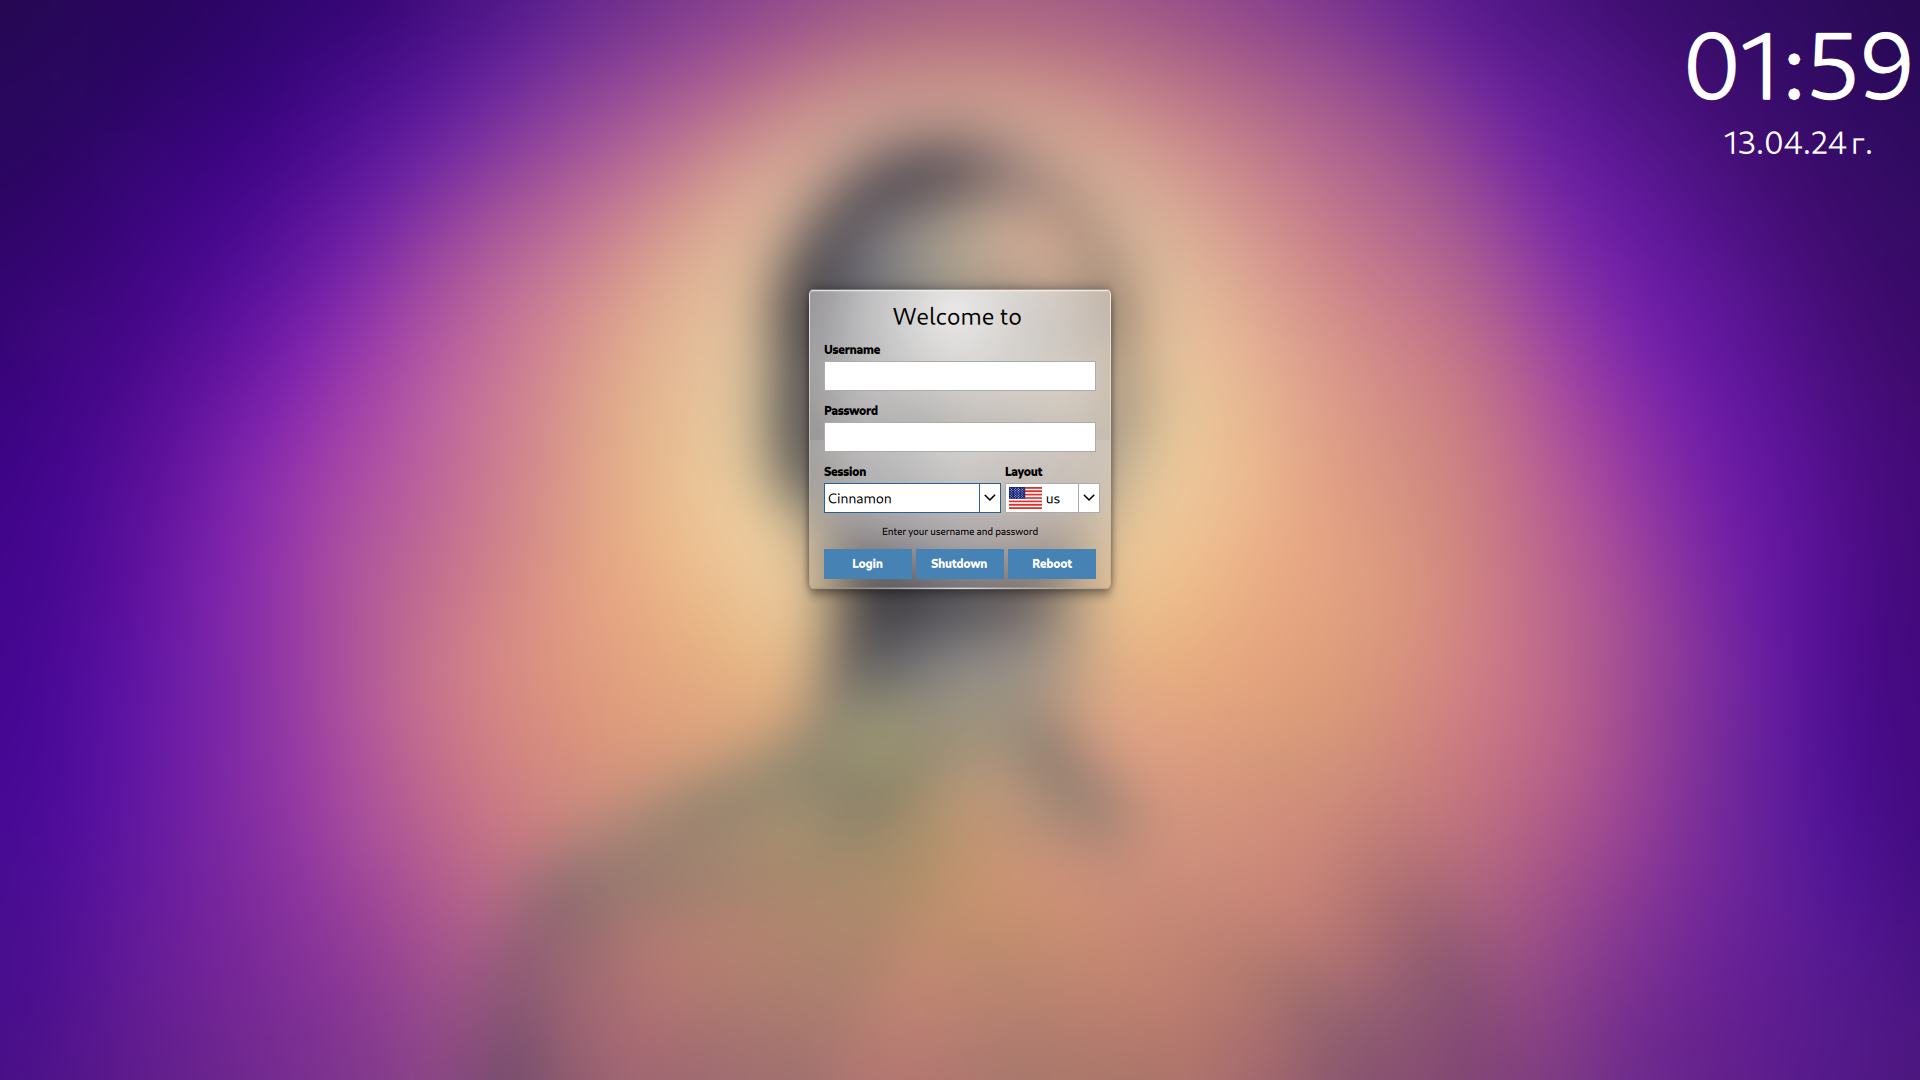
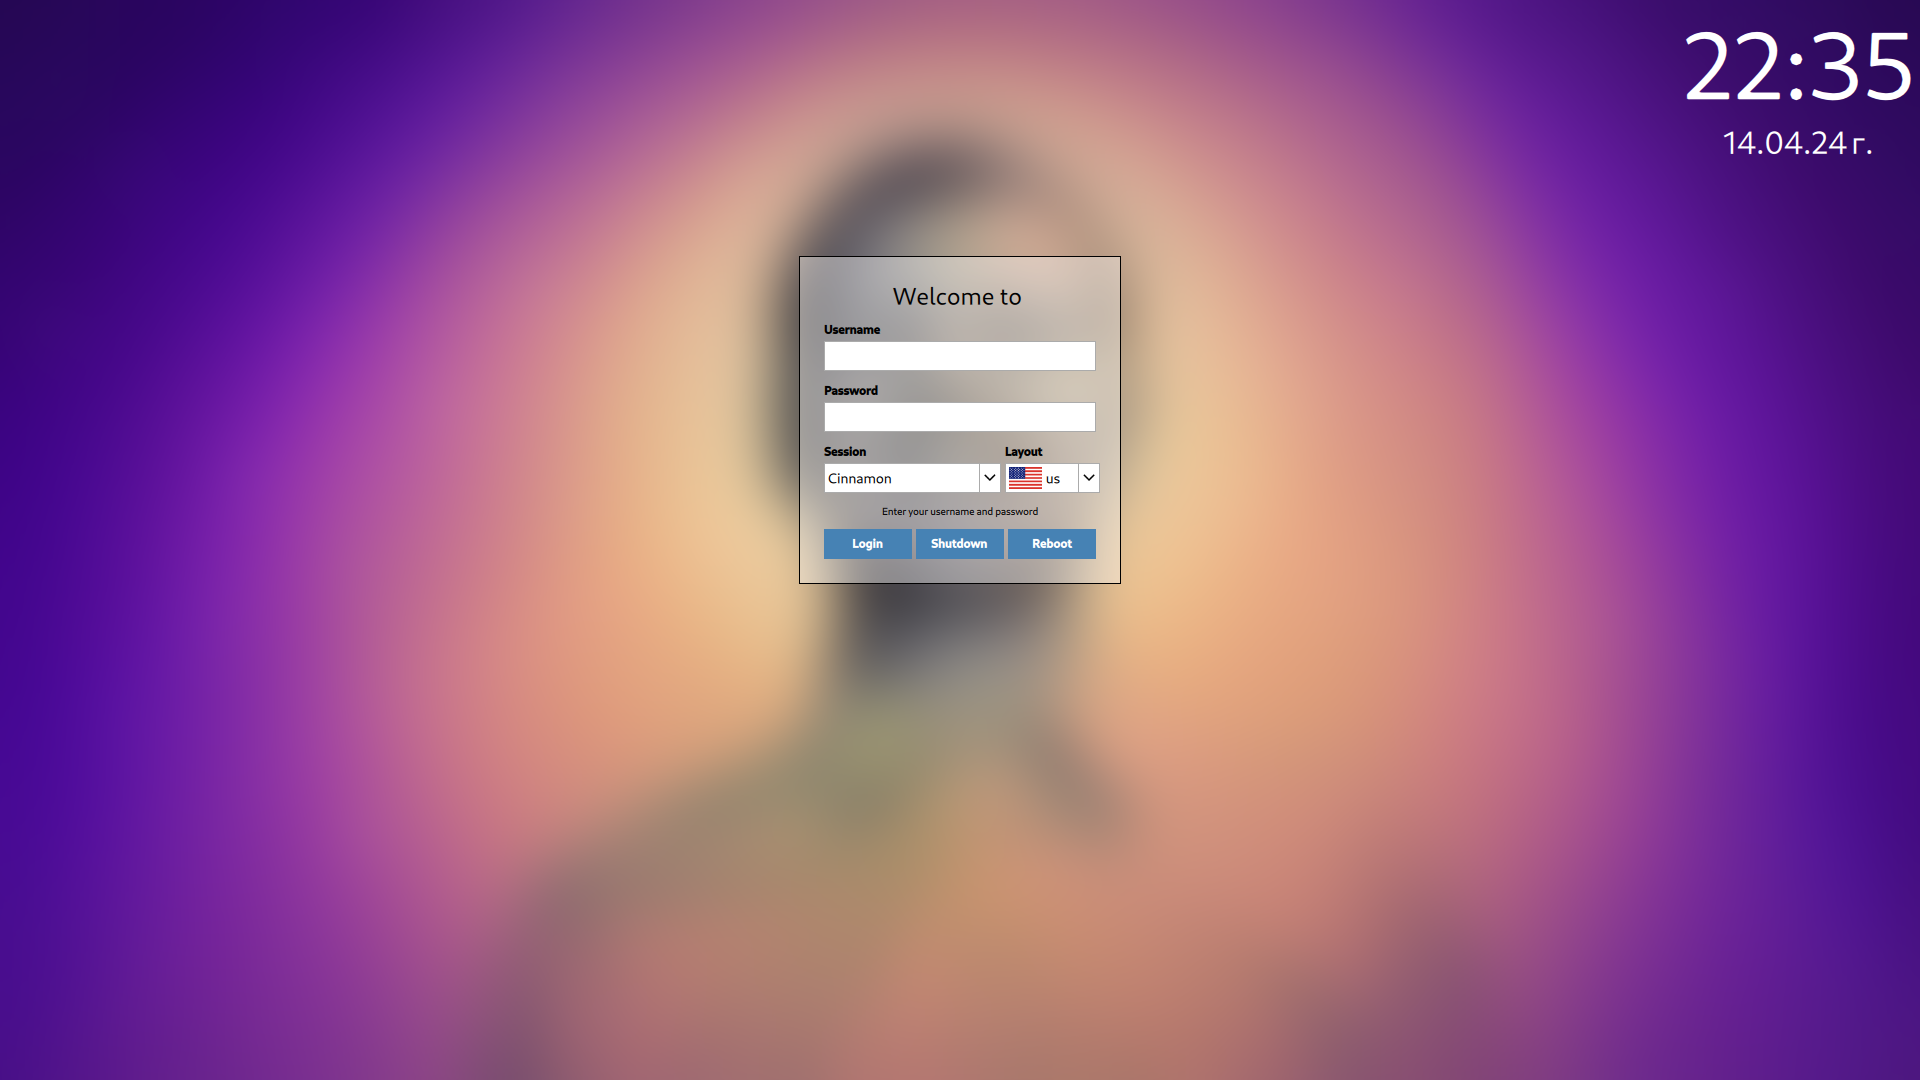
replace image with rectangle

Changed region(s): [[0.4062, 0.2139, 0.5938, 0.55], [0.875, 0.0306, 1.0, 0.0917], [0.9062, 0.1222, 0.9688, 0.1528]]

diff --git a/Main.qml b/Main.qml
@@ -94,17 +94,18 @@ Rectangle {
             anchors.top: parent.top; anchors.right: parent.right
 
             color: "white"
-            timeFont.family: "Oxygen"
+            // timeFont.family: "Oxygen"
         }
 
-        Image {
+        Rectangle {
             id: rectangle
             anchors.centerIn: parent
-            anchors.verticalCenterOffset: -100
+            anchors.verticalCenterOffset: -120
             width: Math.max(320, mainColumn.implicitWidth + 50)
             height: Math.max(320, mainColumn.implicitHeight + 50)
 
-            source: Qt.resolvedUrl("media/rectangle.png")
+            color: "#60FFFFFF"
+            border.color: "black"
 
             Column {
                 id: mainColumn
@@ -262,6 +263,8 @@ Rectangle {
                         text: textConstants.login
                         width: parent.btnWidth
 
+                        // color: "black"
+
                         onClicked: sddm.login(name.text, password.text, sessionIndex)
 
                         KeyNavigation.backtab: layoutBox; KeyNavigation.tab: shutdownButton
@@ -272,6 +275,8 @@ Rectangle {
                         text: textConstants.shutdown
                         width: parent.btnWidth
 
+                        // color: "black"
+
                         onClicked: sddm.powerOff()
 
                         KeyNavigation.backtab: loginButton; KeyNavigation.tab: rebootButton
@@ -281,6 +286,8 @@ Rectangle {
                         id: rebootButton
                         text: textConstants.reboot
                         width: parent.btnWidth
+
+                        // color: "black"
 
                         onClicked: sddm.reboot()
 
